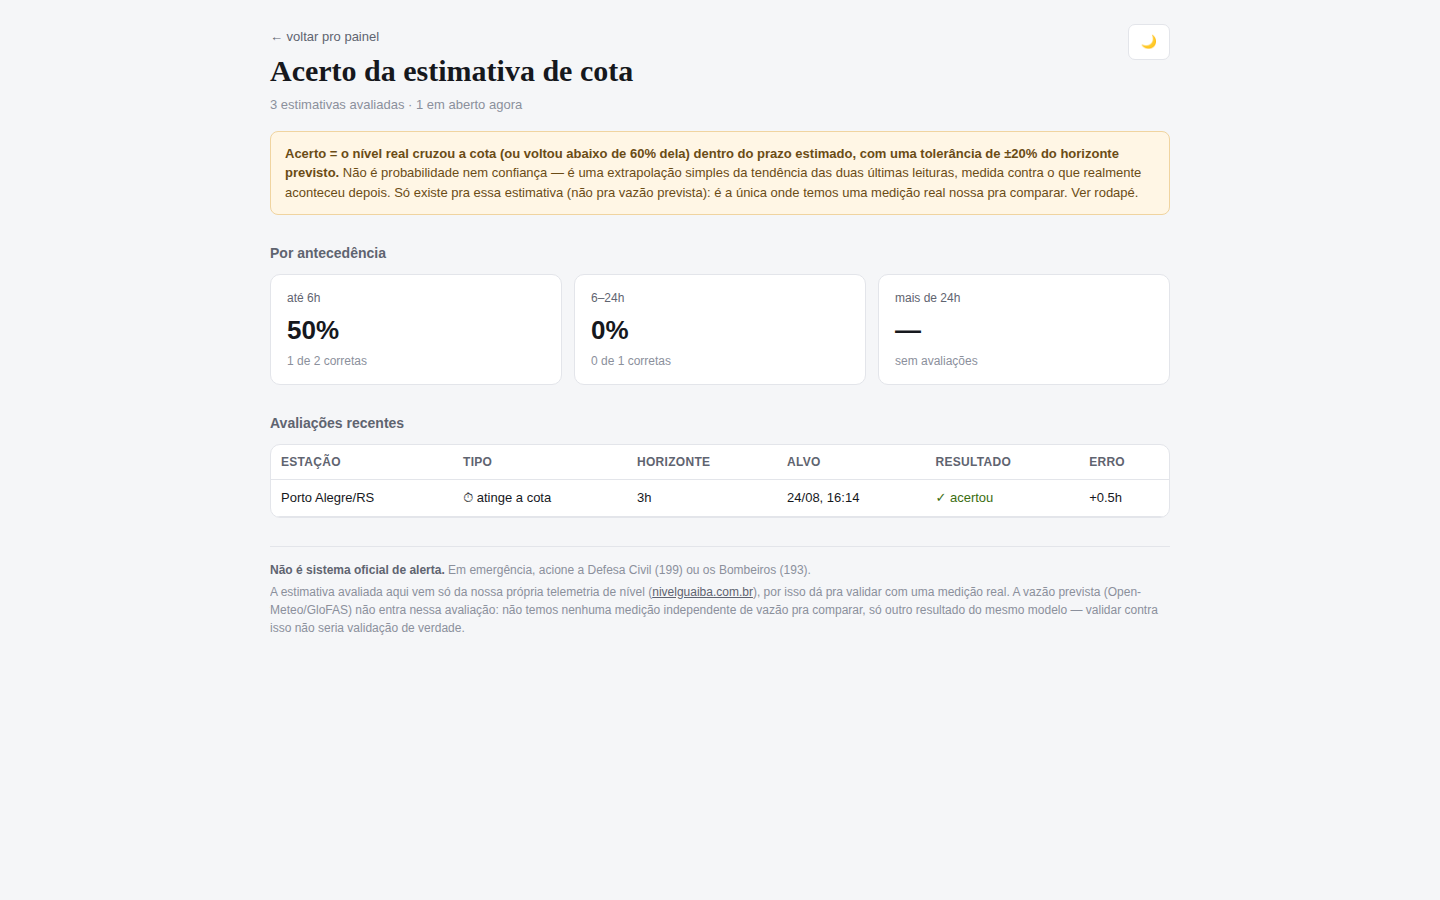
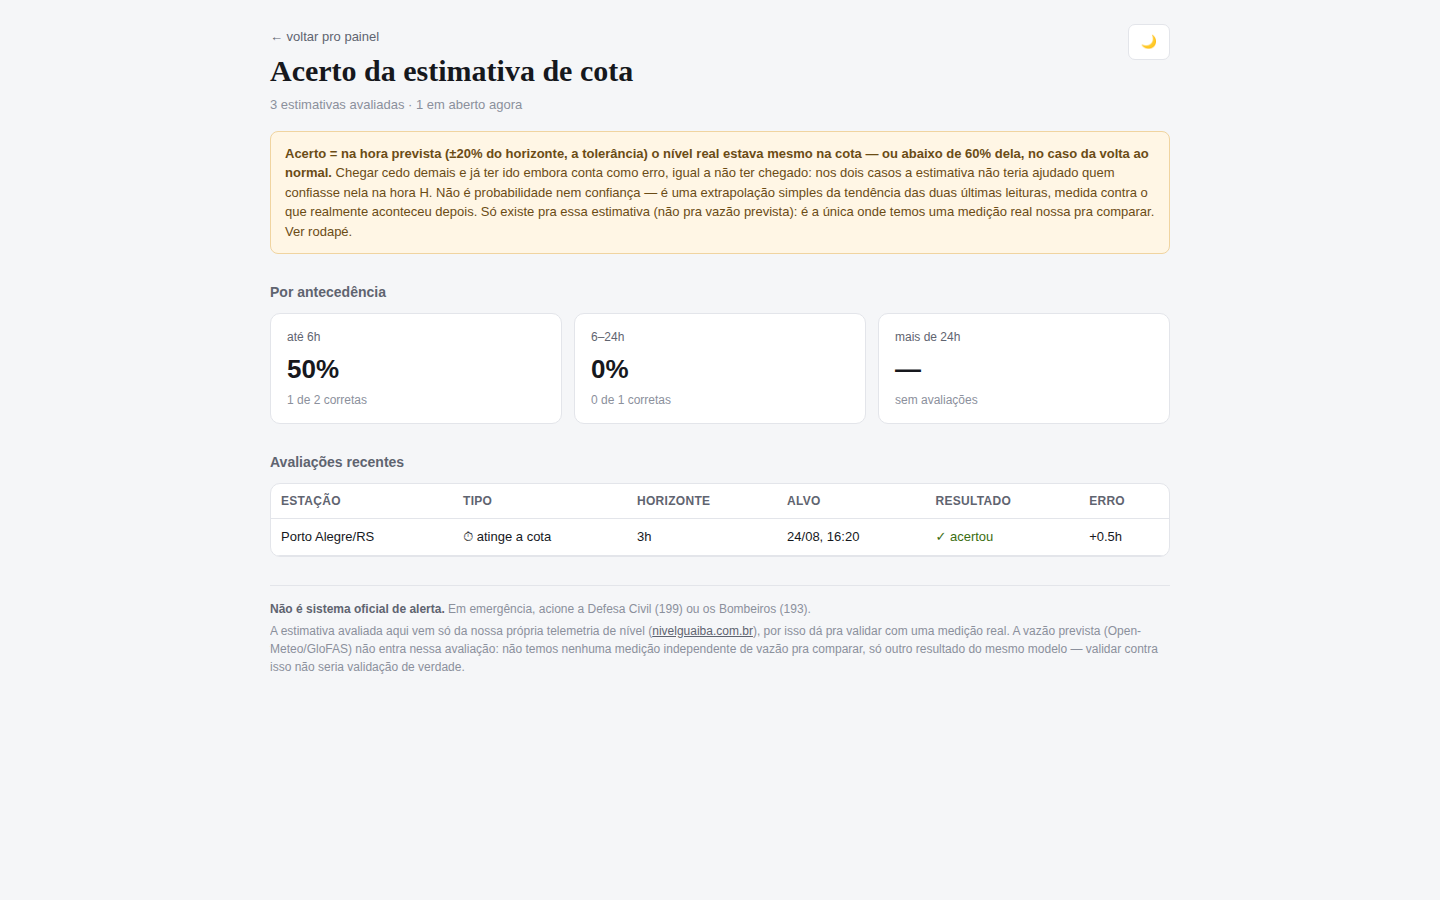
fix: tolerância da estimativa de cota passa a valer dos dois lados
A janela de acerto era [previsto_em, alvo_em + tolerância] — sem limite
adiantado nenhum, qualquer cruzamento depois do cálculo contava. Uma
estimativa de 40h cujo rio tocou o alvo 1h depois e recuou era registrada
como "acertou" com erro_horas ≈ -39, inflando justamente a faixa "mais de
24h", que é onde a página /acerto existe pra mostrar a extrapolação
falhando. A public/acerto.html sempre descreveu "±20% do horizonte
previsto" — era o código que não fazia isso.

Agora a janela é [alvo_em - tolerância, alvo_em + tolerância]: "acertou" =
na hora prevista (± tolerância) o nível realmente estava lá. Chegar cedo
demais e já ter ido embora conta como erro, igual a não ter chegado.
Cruzar cedo e CONTINUAR lá na hora prevista segue como acerto — o
resultado estava certo, só o ritmo não.

erro_horas continua medindo o cruzamento real (o primeiro depois do
cálculo, não o primeiro da janela) contra o horário previsto, pra não
esconder o tamanho do erro de ritmo num acerto adiantado.

O veredito saiu de dentro de avaliarEstimativasCota e virou
`avaliarEstimativa` em lib/calculo.js — pura, sem I/O, seguindo a
convenção que o resto do módulo já usa. 7 testes novos cobrindo as duas
pontas da janela, cruzamento adiantado isolado vs. sustentado, classe
descendo e lista vazia (74 no total).

Linhas já avaliadas mantêm o veredito antigo; o README explica isso e traz
o UPDATE pra reavaliar tudo com o critério novo, se for o caso.
[…]

diff --git a/tests/calculo.test.js b/tests/calculo.test.js
@@ -1,6 +1,6 @@
 import { test } from 'node:test';
 import assert from 'node:assert/strict';
-import { classificar, calcularVelocidade, calcularFrescor, calcularVariacao24h, calcularEtaCota } from '../lib/calculo.js';
+import { classificar, calcularVelocidade, calcularFrescor, calcularVariacao24h, calcularEtaCota, avaliarEstimativa } from '../lib/calculo.js';
 
 test('classificar: abaixo de 60% da cota é normal', () => {
   assert.equal(classificar(5, 10), 'normal');
@@ -109,4 +109,90 @@ test('calcularEtaCota: descendo mas já está normal retorna null', () => {
 test('calcularEtaCota: velocidade zero ou nula retorna null', () => {
   assert.equal(calcularEtaCota(6.5, 10, 3.5, 0, 65), null);
   assert.equal(calcularEtaCota(6.5, 10, 3.5, null, 65), null);
+});
+
+// ---- avaliarEstimativa: tolerância dos DOIS lados ----
+// Cenário base: estimativa de 40h pra cota 10m numa estação subindo, com 8h
+// de tolerância (20% do horizonte, teto de 12h). Janela de acerto =
+// [+32h, +48h] contadas do cálculo.
+const T0 = Date.parse('2026-08-01T00:00:00Z');
+const ALVO = new Date(T0 + 40 * 3_600_000).toISOString();
+const emH = (h) => new Date(T0 + h * 3_600_000).toISOString();
+const base = { classe: 'subindo', alvoNivel: 10, alvoEm: ALVO, toleranciaHoras: 8 };
+
+test('avaliarEstimativa: cruzou na hora prevista, acertou com erro pequeno', () => {
+  const r = avaliarEstimativa({ ...base, leituras: [
+    { nivel: 8.0, medidoEm: emH(20) },
+    { nivel: 9.5, medidoEm: emH(38) },
+    { nivel: 10.2, medidoEm: emH(41) },
+  ]});
+  assert.equal(r.resultado, 'acertou');
+  assert.equal(r.erroHoras, 1);
+});
+
+test('avaliarEstimativa: cruzou cedo demais e recuou antes da janela — errou (bug corrigido)', () => {
+  // Antes valia [previsto_em, alvo_em + tol]: isto contava como "acertou"
+  // com erro_horas = −39, inflando a faixa "mais de 24h".
+  const r = avaliarEstimativa({ ...base, leituras: [
+    { nivel: 10.4, medidoEm: emH(1) },   // pico isolado, 39h adiantado
+    { nivel: 6.0, medidoEm: emH(10) },
+    { nivel: 5.5, medidoEm: emH(40) },   // na hora prevista, longe do alvo
+    { nivel: 5.4, medidoEm: emH(47) },
+  ]});
+  assert.equal(r.resultado, 'errou');
+  assert.equal(r.erroHoras, null);
+  assert.equal(r.nivelRealNoAlvo, 5.5);
+});
+
+test('avaliarEstimativa: cruzou cedo mas CONTINUOU lá na hora prevista — acertou, com o erro de ritmo real', () => {
+  const r = avaliarEstimativa({ ...base, leituras: [
+    { nivel: 10.4, medidoEm: emH(1) },   // cruzou 39h adiantado...
+    { nivel: 11.0, medidoEm: emH(35) },  // ...e seguiu acima dentro da janela
+    { nivel: 11.2, medidoEm: emH(41) },
+  ]});
+  assert.equal(r.resultado, 'acertou');
+  // erroHoras vem do cruzamento REAL, não do começo da janela (−8):
+  assert.equal(r.erroHoras, -39);
+});
+
+test('avaliarEstimativa: nunca chegou ao alvo — errou', () => {
+  const r = avaliarEstimativa({ ...base, leituras: [
+    { nivel: 7.0, medidoEm: emH(20) },
+    { nivel: 8.5, medidoEm: emH(40) },
+    { nivel: 9.1, medidoEm: emH(47) },
+  ]});
+  assert.equal(r.resultado, 'errou');
+  assert.equal(r.nivelRealNoAlvo, 8.5);
+});
+
+test('avaliarEstimativa: limites da janela são inclusivos nas duas pontas', () => {
+  const cedo = avaliarEstimativa({ ...base, leituras: [{ nivel: 10, medidoEm: emH(32) }] });
+  assert.equal(cedo.resultado, 'acertou', 'alvo_em − tolerância conta');
+
+  const tarde = avaliarEstimativa({ ...base, leituras: [{ nivel: 10, medidoEm: emH(48) }] });
+  assert.equal(tarde.resultado, 'acertou', 'alvo_em + tolerância conta');
+
+  const cedoDemais = avaliarEstimativa({ ...base, leituras: [{ nivel: 10, medidoEm: emH(31.9) }] });
+  assert.equal(cedoDemais.resultado, 'errou', 'um pouco antes da janela não conta');
+});
+
+test('avaliarEstimativa: classe descendo inverte a comparação', () => {
+  const desc = { classe: 'descendo', alvoNivel: 6, alvoEm: ALVO, toleranciaHoras: 8 };
+  const acertou = avaliarEstimativa({ ...desc, leituras: [{ nivel: 5.8, medidoEm: emH(39) }] });
+  assert.equal(acertou.resultado, 'acertou');
+
+  const errou = avaliarEstimativa({ ...desc, leituras: [{ nivel: 6.3, medidoEm: emH(39) }] });
+  assert.equal(errou.resultado, 'errou');
+});
+
+test('avaliarEstimativa: ordena internamente e aguenta lista vazia', () => {
+  const foraDeOrdem = avaliarEstimativa({ ...base, leituras: [
+    { nivel: 10.2, medidoEm: emH(41) },
+    { nivel: 8.0, medidoEm: emH(20) },
+  ]});
+  assert.equal(foraDeOrdem.resultado, 'acertou');
+  assert.equal(foraDeOrdem.erroHoras, 1);
+
+  const vazia = avaliarEstimativa({ ...base, leituras: [] });
+  assert.deepEqual(vazia, { resultado: 'errou', erroHoras: null, nivelRealNoAlvo: null });
 });

diff --git a/lib/coletar.js b/lib/coletar.js
@@ -1,7 +1,7 @@
 import { sql } from './db.js';
 import { buscarFeed } from './feed.js';
 import { buscarPrevisao, buscarClima } from './previsao.js';
-import { calcularVelocidade, calcularEtaCota } from './calculo.js';
+import { calcularVelocidade, calcularEtaCota, avaliarEstimativa } from './calculo.js';
 import { enviarNotificacoesAlerta } from './push.js';
 import { buscarNiveisAna, ESTACOES_ANA, calcularChuvaAcumulada } from './ana.js';
 
@@ -387,11 +387,22 @@ async function registrarEstimativasCota() {
 }
 
 // Avalia estimativas cujo prazo (alvo_em + tolerância) já passou: confere se
-// o nível real cruzou o alvo_nivel dentro da janela [previsto_em, alvo_em +
-// tolerância]. "Acertou" = cruzou dentro do prazo; "errou" = não cruzou
-// nesse intervalo (seja porque ainda não tinha cruzado, seja porque a
-// tendência reverteu antes de chegar lá) — as duas situações contam como
-// erro, porque na hora H a estimativa não teria ajudado quem confiasse nela.
+// o nível real estava do outro lado do alvo_nivel dentro da janela de acerto
+// [alvo_em − tolerância, alvo_em + tolerância].
+//
+// A tolerância é dos DOIS lados. Antes valia [previsto_em, alvo_em + tol]:
+// qualquer cruzamento depois do cálculo contava, então uma estimativa de 40h
+// cujo rio cruzou o alvo 1h depois e recuou de novo era registrada como
+// "acertou" com erro_horas ≈ −39 — inflando justamente a faixa "mais de 24h",
+// que é onde a página existe pra mostrar a extrapolação falhando. A própria
+// public/acerto.html sempre descreveu "±20% do horizonte previsto"; era o
+// código que não fazia isso.
+//
+// "Acertou" = na hora prevista (± tolerância) o nível realmente estava lá.
+// "Errou" = não estava — seja porque ainda não tinha chegado, seja porque a
+// tendência reverteu antes, seja porque chegou cedo demais e já tinha ido
+// embora. As três contam igual, porque na hora H a estimativa não teria
+// ajudado quem confiasse nela.
 async function avaliarEstimativasCota() {
   const avaliadas = [];
 
@@ -410,31 +421,22 @@ async function avaliarEstimativasCota() {
       ORDER BY medido_em ASC
     `;
 
-    const alvoNivel = Number(p.alvo_nivel);
-    const cruzamento = janela.find((l) =>
-      p.classe === 'subindo' ? Number(l.nivel) >= alvoNivel : Number(l.nivel) <= alvoNivel
-    );
-
-    // Leitura real mais próxima do horário-alvo, só como contexto pra quem
-    // for olhar os dados depois — inclusive quando o resultado é "errou".
-    let maisProxima = null;
-    if (janela.length > 0) {
-      const alvoMs = new Date(p.alvo_em).getTime();
-      maisProxima = janela.reduce((a, b) =>
-        Math.abs(new Date(a.medido_em).getTime() - alvoMs) <= Math.abs(new Date(b.medido_em).getTime() - alvoMs) ? a : b
-      );
-    }
-
-    const resultado = cruzamento ? 'acertou' : 'errou';
-    const erroHoras = cruzamento
-      ? Number(((new Date(cruzamento.medido_em).getTime() - new Date(p.alvo_em).getTime()) / 3_600_000).toFixed(2))
-      : null;
+    // O limite TARDIO da janela já veio do SQL acima; o adiantado e o
+    // veredito em si ficam em avaliarEstimativa (lib/calculo.js), pura e
+    // coberta por tests/calculo.test.js.
+    const { resultado, erroHoras, nivelRealNoAlvo } = avaliarEstimativa({
+      classe: p.classe,
+      alvoNivel: Number(p.alvo_nivel),
+      alvoEm: p.alvo_em,
+      toleranciaHoras: Number(p.tolerancia_horas),
+      leituras: janela.map((l) => ({ nivel: Number(l.nivel), medidoEm: l.medido_em })),
+    });
 
     await sql`
       UPDATE estimativas_cota
       SET avaliado_em = NOW(),
           resultado = ${resultado},
-          nivel_real_no_alvo = ${maisProxima ? Number(maisProxima.nivel) : null},
+          nivel_real_no_alvo = ${nivelRealNoAlvo},
           erro_horas = ${erroHoras}
       WHERE id = ${p.id}
     `;

diff --git a/lib/calculo.js b/lib/calculo.js
@@ -61,6 +61,52 @@ export function calcularEtaCota(nivel, cota, margem, velocidadeCmH, percentualCo
   return null;
 }
 
+// Veredito de uma estimativa arquivada, conferida contra as leituras REAIS
+// que vieram depois. Pura (sem I/O) pra ser testada isolada — quem busca as
+// leituras e grava o resultado é avaliarEstimativasCota em lib/coletar.js.
+//
+// leituras: [{nivel, medidoEm}] do intervalo [previsto_em, alvo_em + tol],
+// em qualquer ordem (ordena internamente).
+//
+// A tolerância vale dos DOIS lados: a janela de acerto é
+// [alvoEm − tolerância, alvoEm + tolerância]. "Acertou" = alguma leitura de
+// dentro dessa janela já estava do outro lado do alvo — ou seja, na hora
+// prevista (± tolerância) o nível realmente estava lá. Cruzar cedo demais e
+// já ter ido embora conta como erro, igual a não ter chegado: nos dois casos
+// a estimativa não teria ajudado quem confiasse nela na hora H.
+//
+// erroHoras mede o cruzamento REAL (o primeiro do intervalo inteiro, não da
+// janela de acerto) contra o horário previsto — negativo = chegou adiantado.
+// É o que revela o tamanho do erro de ritmo mesmo num "acertou"; medir só
+// dentro da janela faria todo acerto adiantado aparecer como exatamente
+// −tolerância, escondendo o quanto a extrapolação errou.
+export function avaliarEstimativa({ classe, alvoNivel, alvoEm, toleranciaHoras, leituras }) {
+  const ordenadas = (leituras || [])
+    .slice()
+    .sort((a, b) => new Date(a.medidoEm) - new Date(b.medidoEm));
+
+  const alvoMs = new Date(alvoEm).getTime();
+  const inicioAcerto = alvoMs - toleranciaHoras * 3_600_000;
+  const atingiu = (l) => (classe === 'subindo' ? l.nivel >= alvoNivel : l.nivel <= alvoNivel);
+
+  const naJanela = ordenadas.find((l) => new Date(l.medidoEm).getTime() >= inicioAcerto && atingiu(l));
+  const primeiro = ordenadas.find(atingiu);
+
+  // Leitura real mais próxima do horário-alvo, só como contexto pra quem for
+  // olhar os dados depois — inclusive quando o resultado é "errou".
+  const maisProxima = ordenadas.length === 0 ? null : ordenadas.reduce((a, b) =>
+    Math.abs(new Date(a.medidoEm).getTime() - alvoMs) <= Math.abs(new Date(b.medidoEm).getTime() - alvoMs) ? a : b
+  );
+
+  return {
+    resultado: naJanela ? 'acertou' : 'errou',
+    erroHoras: naJanela
+      ? Number(((new Date(primeiro.medidoEm).getTime() - alvoMs) / 3_600_000).toFixed(2))
+      : null,
+    nivelRealNoAlvo: maisProxima === null ? null : maisProxima.nivel,
+  };
+}
+
 // Frescor de UMA leitura específica — mais granular que o "ultimaColeta"
 // global: uma estação pode estar atrasada mesmo com a coleta geral em dia
 // (ex.: o feed parou de atualizar só aquela estação). `agora` é injetável

diff --git a/public/acerto.html b/public/acerto.html
@@ -28,8 +28,10 @@
   </header>
 
   <p class="aviso">
-    <b>Acerto = o nível real cruzou a cota (ou voltou abaixo de 60% dela) dentro do prazo
-    estimado, com uma tolerância de ±20% do horizonte previsto.</b> Não é probabilidade nem
+    <b>Acerto = na hora prevista (±20% do horizonte, a tolerância) o nível real estava
+    mesmo na cota — ou abaixo de 60% dela, no caso da volta ao normal.</b> Chegar cedo
+    demais e já ter ido embora conta como erro, igual a não ter chegado: nos dois casos a
+    estimativa não teria ajudado quem confiasse nela na hora H. Não é probabilidade nem
     confiança — é uma extrapolação simples da tendência das duas últimas leituras, medida
     contra o que realmente aconteceu depois. Só existe pra essa estimativa (não pra vazão
     prevista): é a única onde temos uma medição real nossa pra comparar. Ver rodapé.

diff --git a/README.md b/README.md
@@ -480,12 +480,37 @@ funciona depois de deployado no Vercel (localmente ou noutro host, o
     min.
   - Quando o prazo vence (`alvo_em` + tolerância — 20% do horizonte
     estimado, entre 1h e 12h), `avaliarEstimativasCota` confere se alguma
-    leitura real da estação cruzou o `alvo_nivel` dentro da janela
-    `[previsto_em, alvo_em + tolerância]`. Cruzou = "acertou" (com
-    `erro_horas` = diferença entre o cruzamento real e o horário previsto).
-    Não cruzou (seja porque ainda não tinha chegado lá, seja porque a
-    tendência reverteu antes) = "errou" — as duas situações contam igual,
-    porque na hora H a estimativa não teria ajudado quem confiasse nela.
+    leitura real da estação estava do outro lado do `alvo_nivel` dentro da
+    **janela de acerto** `[alvo_em − tolerância, alvo_em + tolerância]` — a
+    tolerância vale dos dois lados. Estava = "acertou"; não estava = "errou".
+    Três situações contam como erro, igual: ainda não tinha chegado lá; a
+    tendência reverteu antes; ou chegou cedo demais e já tinha ido embora
+    quando a hora prevista veio. Nas três, na hora H a estimativa não teria
+    ajudado quem confiasse nela.
+  - `erro_horas` mede o cruzamento **real** (o primeiro depois do cálculo,
+    não o primeiro dentro da janela) contra o horário previsto — negativo =
+    adiantado. Então um "acertou" pode vir com `erro_horas = −39`: o rio
+    chegou muito antes do estimado e ainda estava lá na hora prevista. O
+    resultado foi acertado, o ritmo não; medir só dentro da janela faria
+    todo acerto adiantado aparecer como exatamente `−tolerância`, escondendo
+    o tamanho do erro.
+  - **Correção posterior:** a janela de acerto era `[previsto_em, alvo_em +
+    tolerância]`, ou seja, sem limite adiantado nenhum — qualquer cruzamento
+    depois do cálculo contava. Uma estimativa de 40h cujo rio tocou o alvo 1h
+    depois e recuou era registrada como "acertou" com `erro_horas ≈ −39`,
+    inflando justamente a faixa "mais de 24h", que é onde a página existe pra
+    mostrar a extrapolação falhando. A `public/acerto.html` sempre descreveu
+    "±20% do horizonte" — era o código que não fazia isso. As linhas
+    avaliadas **antes** dessa correção mantêm o veredito antigo (o campo
+    `avaliado_em` não é recalculado), então a taxa das faixas longas deve
+    cair aos poucos, conforme as avaliações novas entram. Se quiser zerar de
+    uma vez: `UPDATE estimativas_cota SET avaliado_em = NULL, resultado =
+    NULL, erro_horas = NULL, nivel_real_no_alvo = NULL;` — a próxima coleta
+    reavalia tudo com o critério novo, desde que as `leituras` da época ainda
+    estejam no banco.
+  - O veredito em si é `avaliarEstimativa` em `lib/calculo.js` — pura, sem
+    I/O, coberta por `tests/calculo.test.js`. `avaliarEstimativasCota` em
+    `lib/coletar.js` só busca as leituras e grava o resultado.
   - `/api/acerto` agrupa por antecedência (até 6h / 6–24h / mais de 24h) —
     a expectativa razoável é a taxa cair conforme o horizonte cresce, já
     que a extrapolação usa só as duas últimas leituras (bem sensível a
